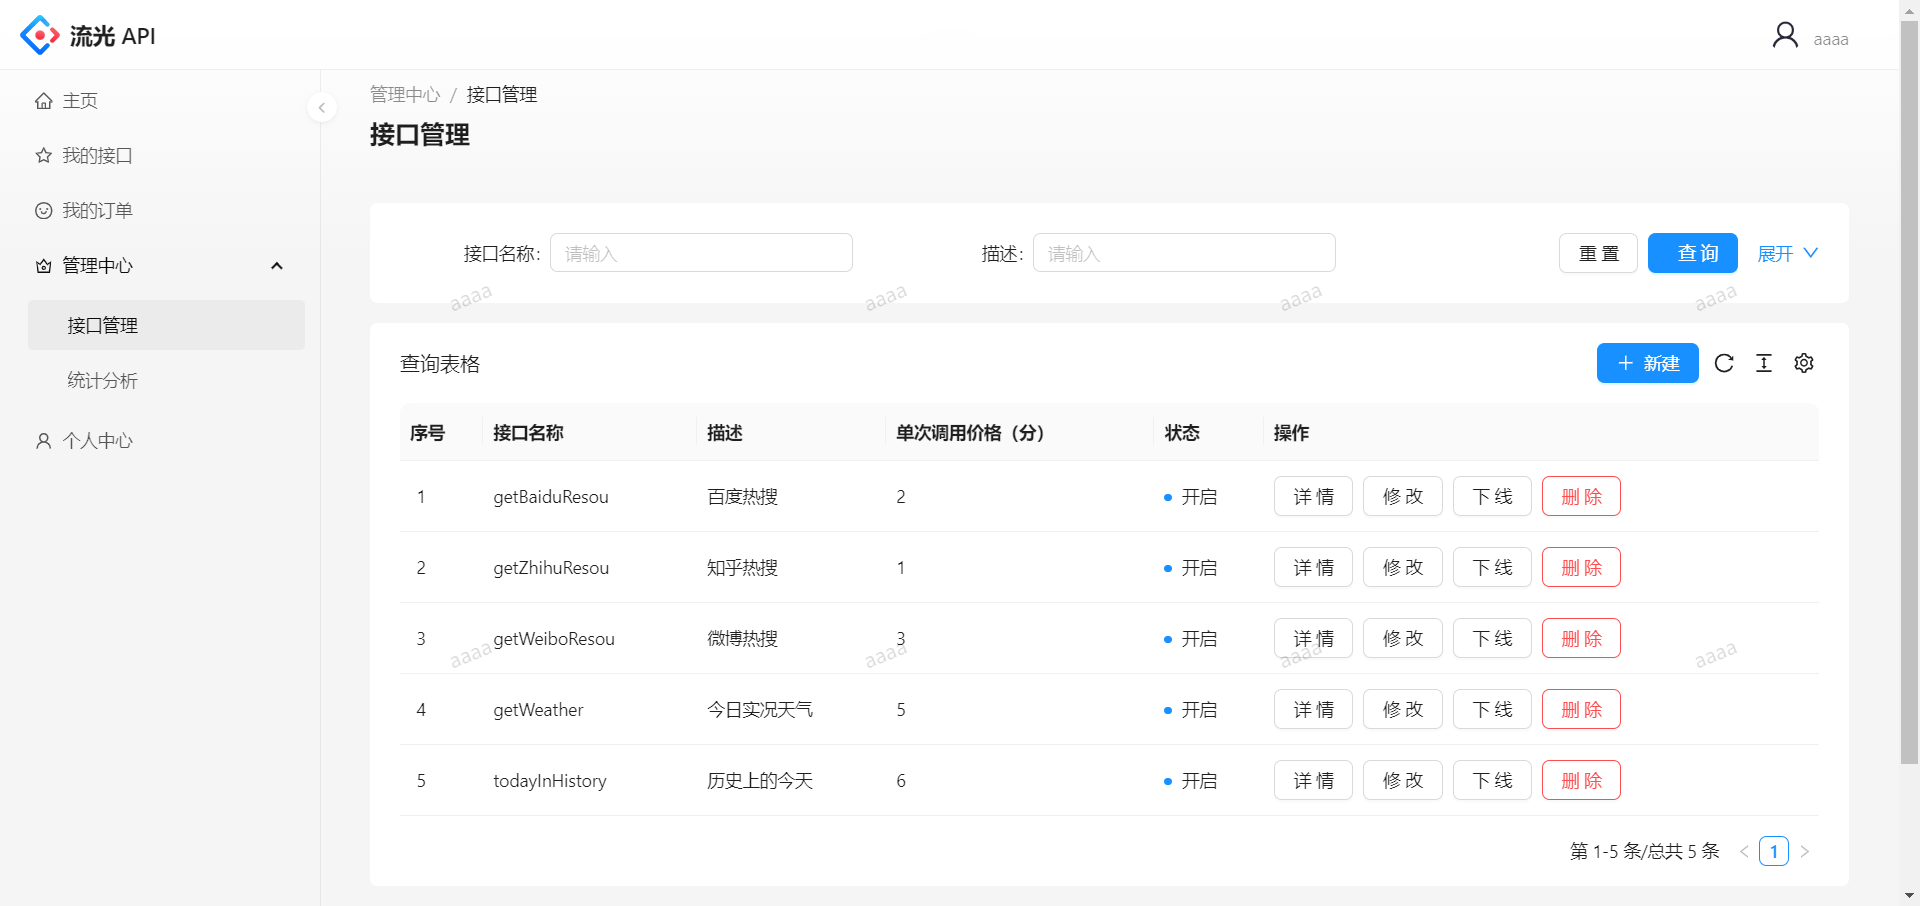
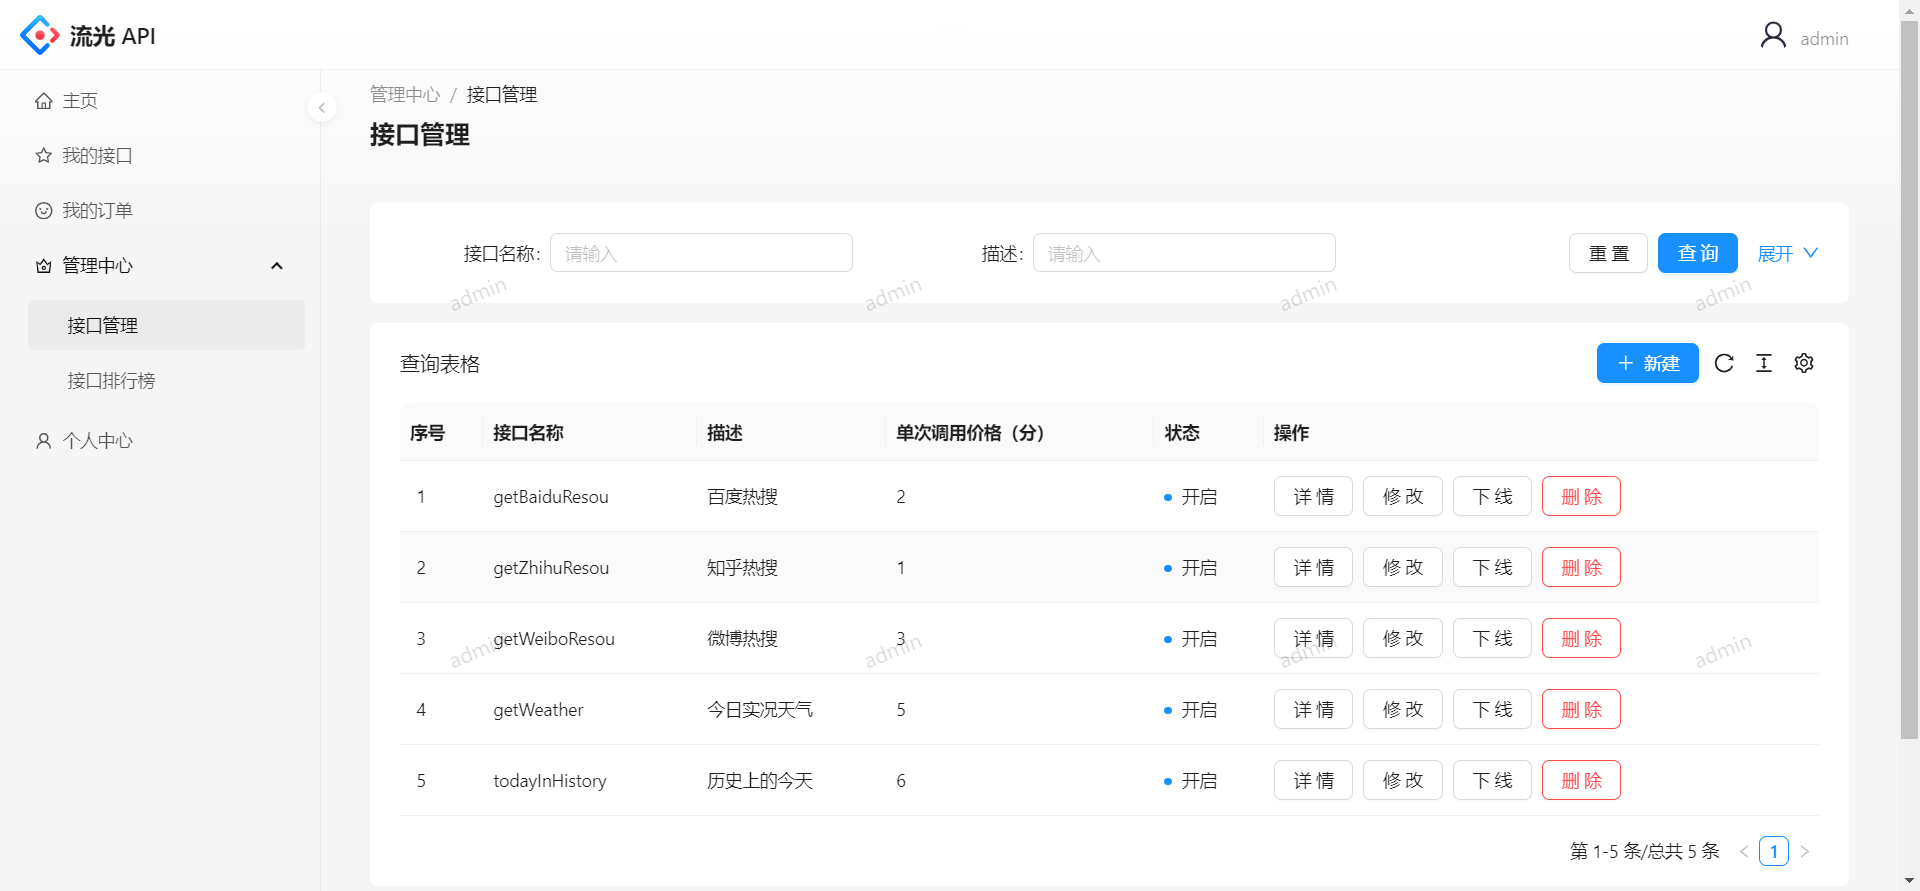
add 接口排行榜 update README文档

diff --git a/liuguang-api-interface/src/main/java/com/weikey/liuguangapiinterface/service/impl/AnalysisServiceImpl.java b/liuguang-api-interface/src/main/java/com/weikey/liuguangapiinterface/service/impl/AnalysisServiceImpl.java
@@ -4,16 +4,22 @@ import cn.hutool.core.bean.BeanUtil;
 import com.weikey.liuguangapicommon.model.entity.InterfaceInfo;
 import com.weikey.liuguangapicommon.model.response.BaseResponse;
 import com.weikey.liuguangapicommon.model.vo.InterfaceInfoCountVO;
+import com.weikey.liuguangapicommon.model.vo.RankingVO;
 import com.weikey.liuguangapicommon.utils.ResultUtils;
 import com.weikey.liuguangapiinterface.mapper.UserInterfaceInfoMapper;
 import com.weikey.liuguangapiinterface.service.AnalysisService;
 import com.weikey.liuguangapiinterface.service.InterfaceInfoService;
+import org.springframework.data.redis.core.StringRedisTemplate;
+import org.springframework.data.redis.core.ZSetOperations;
 import org.springframework.stereotype.Service;
 
 import javax.annotation.Resource;
 import java.util.List;
 import java.util.Map;
+import java.util.Set;
 import java.util.stream.Collectors;
+
+import static com.weikey.liuguangapicommon.constant.RedisKeyConstant.RANKING_KEY;
 
 @Service
 public class AnalysisServiceImpl implements AnalysisService {
@@ -24,14 +30,16 @@ public class AnalysisServiceImpl implements AnalysisService {
     @Resource
     private InterfaceInfoService interfaceInfoService;
 
+    @Resource
+    private StringRedisTemplate stringRedisTemplate;
+
     @Override
     public BaseResponse<List<InterfaceInfoCountVO>> listTopInvokeInterface(int n) {
         // 只拿到InterfaceInfoCountVo的2个字段：id和totalCount
         List<InterfaceInfoCountVO> interfaceInfoCountVoList = userInterfaceInfoMapper.listTopInvokeCount(3);
         // todo java8新特性
         // 根据id分组
-        Map<Long, List<InterfaceInfoCountVO>> map = interfaceInfoCountVoList.stream()
-                .collect(Collectors.groupingBy(InterfaceInfoCountVO::getId));
+        Map<Long, List<InterfaceInfoCountVO>> map = interfaceInfoCountVoList.stream().collect(Collectors.groupingBy(InterfaceInfoCountVO::getId));
         // 拿到接口的完整信息
         List<InterfaceInfo> interfaceInfoList = interfaceInfoService.listByIds(map.keySet());
         // 根据interfaceInfo补充interfaceInfoCountVo的属性值
@@ -42,5 +50,35 @@ public class AnalysisServiceImpl implements AnalysisService {
         }).collect(Collectors.toList());
 
         return ResultUtils.success(result);
+    }
+
+    @Override
+    public BaseResponse<List<RankingVO>> interfaceRank(int n) {
+        // zset降序排列后（次数从多到少），取出前 N 个
+        Set<ZSetOperations.TypedTuple<String>> set = stringRedisTemplate.opsForZSet()
+                .reverseRangeWithScores(RANKING_KEY, 0L, n - 1L); // 索引从0开始，左右都是闭区间
+
+        // 根据接口id分组
+        Map<String, List<ZSetOperations.TypedTuple<String>>> map = set.stream()
+                .collect(Collectors.groupingBy(ZSetOperations.TypedTuple::getValue));
+
+        List<InterfaceInfo> interfaceInfoList = interfaceInfoService.listByIds(map.keySet());
+
+        // 根据接口id分组
+        Map<Long, List<InterfaceInfo>> longListMap = interfaceInfoList.stream()
+                .collect(Collectors.groupingBy(InterfaceInfo::getId));
+
+        // 必须是对redis取出的zset进行map操作（而不是interfaceInfoList），这样最终得到的结果才具备顺序
+        List<RankingVO> rankingVOList = set.stream().map(tuple -> {
+            InterfaceInfo interfaceInfo = longListMap.get(Long.parseLong(tuple.getValue())).get(0);
+
+            RankingVO rankingVO = new RankingVO();
+            rankingVO.setName(interfaceInfo.getName());
+            rankingVO.setDescription(interfaceInfo.getDescription());
+            rankingVO.setCount(tuple.getScore().intValue());
+            return rankingVO;
+        }).collect(Collectors.toList());
+
+        return ResultUtils.success(rankingVOList);
     }
 }

diff --git a/liuguang-api-interface/src/main/java/com/weikey/liuguangapiinterface/controller/AnalysisController.java b/liuguang-api-interface/src/main/java/com/weikey/liuguangapiinterface/controller/AnalysisController.java
@@ -4,6 +4,7 @@ import com.weikey.liuguangapicommon.annotation.AuthCheck;
 import com.weikey.liuguangapicommon.constant.UserConstant;
 import com.weikey.liuguangapicommon.model.response.BaseResponse;
 import com.weikey.liuguangapicommon.model.vo.InterfaceInfoCountVO;
+import com.weikey.liuguangapicommon.model.vo.RankingVO;
 import com.weikey.liuguangapiinterface.service.impl.AnalysisServiceImpl;
 import org.springframework.web.bind.annotation.GetMapping;
 import org.springframework.web.bind.annotation.RequestMapping;
@@ -34,5 +35,17 @@ public class AnalysisController {
     public BaseResponse<List<InterfaceInfoCountVO>> listTopInvokeInterface() {
         // todo 这里先写死了3个
         return analysisService.listTopInvokeInterface(3);
+    }
+
+    /**
+     * 接口次数排行榜
+     *
+     * @return 接口信息及总调用次数
+     */
+    @GetMapping("/ranking/list")
+    @AuthCheck(mustRole = UserConstant.ADMIN_ROLE)
+    public BaseResponse<List<RankingVO>> interfaceRank() {
+        // todo 这里先写死了3个
+        return analysisService.interfaceRank(5);
     }
 }

diff --git a/liuguang-api-sdk/src/main/java/com/weikey/liuguangapisdk/client/ApiClient.java b/liuguang-api-sdk/src/main/java/com/weikey/liuguangapisdk/client/ApiClient.java
@@ -5,12 +5,19 @@ import cn.hutool.core.util.StrUtil;
 import cn.hutool.http.HttpRequest;
 import cn.hutool.http.HttpResponse;
 import cn.hutool.http.HttpStatus;
+import com.weikey.liuguangapisdk.constant.HeaderConstant;
+import com.weikey.liuguangapisdk.dto.ResouRequest;
+import com.weikey.liuguangapisdk.dto.WeatherRequest;
+import com.weikey.liuguangapisdk.exception.ApiError;
+import com.weikey.liuguangapisdk.exception.ApiException;
 import lombok.AllArgsConstructor;
 import lombok.Data;
 import lombok.NoArgsConstructor;
 
 import java.util.HashMap;
 import java.util.Map;
+
+import static com.weikey.liuguangapisdk.utils.SignUtils.getSign;
 
 
 /**

diff --git a/liuguang-api-gateway/src/main/java/com/weikey/liuguangapigateway/filter/InterfaceInvokeFilter.java b/liuguang-api-gateway/src/main/java/com/weikey/liuguangapigateway/filter/InterfaceInvokeFilter.java
@@ -232,6 +232,9 @@ public class InterfaceInvokeFilter implements GatewayFilter, Ordered {
                         log.info("response statusCode: " + statusCode);
                         log.info("response data: " + respDataStr);
 
+                        // 9.排行榜次数统计
+                        stringRedisTemplate.opsForZSet().incrementScore(RANKING_KEY, userInterfaceInfoInvokeCountRequest.getInterfaceInfoId().toString(), 1);
+
                         byte[] respData = respDataStr.getBytes();
                         return bufferFactory.wrap(respData);
                     }));

diff --git a/liuguang-api-common/src/main/java/com/weikey/liuguangapicommon/model/vo/RankingVO.java b/liuguang-api-common/src/main/java/com/weikey/liuguangapicommon/model/vo/RankingVO.java
@@ -1,0 +1,28 @@
+package com.weikey.liuguangapicommon.model.vo;
+
+import lombok.Data;
+
+import java.io.Serializable;
+
+/**
+ * 接口总调用次数视图
+ */
+@Data
+public class RankingVO implements Serializable {
+    /**
+     * 接口名称
+     */
+    private String name;
+
+    /**
+     * 接口描述
+     */
+    private String description;
+
+    /**
+     * 总调用次数
+     */
+    private Integer count;
+
+    private static final long serialVersionUID = 1L;
+}

diff --git a/liuguang-api-interface/src/main/java/com/weikey/liuguangapiinterface/service/AnalysisService.java b/liuguang-api-interface/src/main/java/com/weikey/liuguangapiinterface/service/AnalysisService.java
@@ -3,6 +3,7 @@ package com.weikey.liuguangapiinterface.service;
 
 import com.weikey.liuguangapicommon.model.response.BaseResponse;
 import com.weikey.liuguangapicommon.model.vo.InterfaceInfoCountVO;
+import com.weikey.liuguangapicommon.model.vo.RankingVO;
 
 import java.util.List;
 
@@ -16,4 +17,5 @@ public interface AnalysisService {
       */
      BaseResponse<List<InterfaceInfoCountVO>> listTopInvokeInterface(int n);
 
+    BaseResponse<List<RankingVO>> interfaceRank(int n);
 }

diff --git a/liuguang-api-common/src/main/java/com/weikey/liuguangapicommon/constant/RedisKeyConstant.java b/liuguang-api-common/src/main/java/com/weikey/liuguangapicommon/constant/RedisKeyConstant.java
@@ -5,4 +5,5 @@ public interface RedisKeyConstant {
     String NONCE_KEY_PREFIX = "api:nonce:";
     String USER_KEY_PREFIX = "api:user:";
     String INTERFACE_KEY_PREFIX = "api:interface:";
+    String RANKING_KEY = "api:ranking";
 }

diff --git a/README.md b/README.md
@@ -34,9 +34,9 @@
 
 ![主页](image/management.png)
 
-统计分析：接口调用次数统计，并用图表呈现
+接口排行榜：统计各接口调用次数，进行排序展示
 
-![主页](image/analysis.png)
+![主页](image/ranking.png)
 
 个人中心：查看个人信息，查看密钥，重置密钥
 
